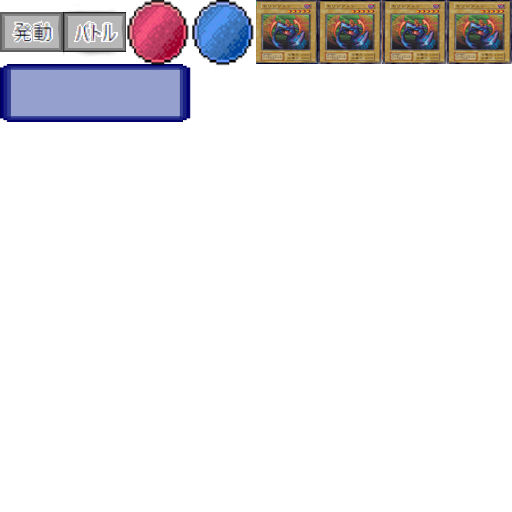
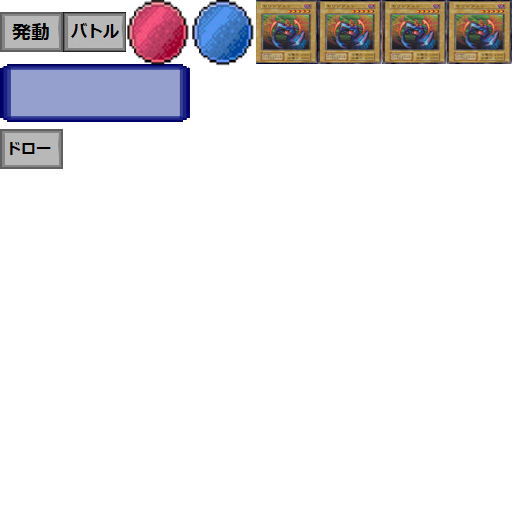
ドローボタン修正

Changed region(s): [[0.0, 0.0312, 0.25, 0.125], [0.0, 0.25, 0.125, 0.3438]]

diff --git a/Main/Main/Deck.cpp b/Main/Main/Deck.cpp
@@ -266,10 +266,10 @@ void CObjDekc::Draw()
 
 	if (Button2 == true)
 	{
-		src.m_top = 64.0f;
+		src.m_top = 128.0f;
 		src.m_left = 0.0f;
 		src.m_right = 64.0f;
-		src.m_bottom = 128.0f;
+		src.m_bottom = 172.0f;
 
 		dst.m_top = 700.0f;
 		dst.m_left = 1104.0f;
